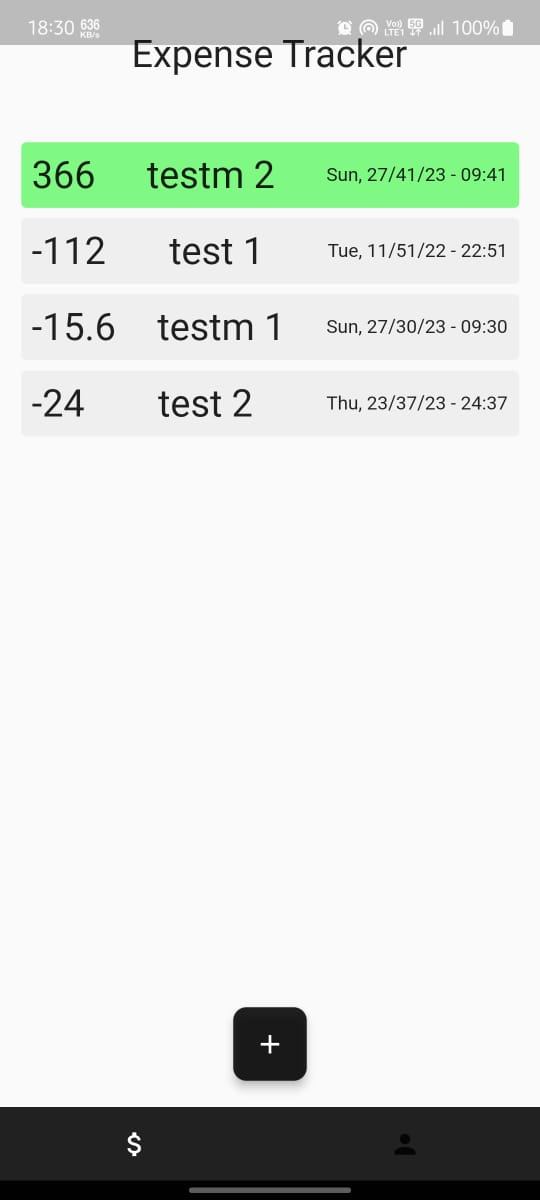
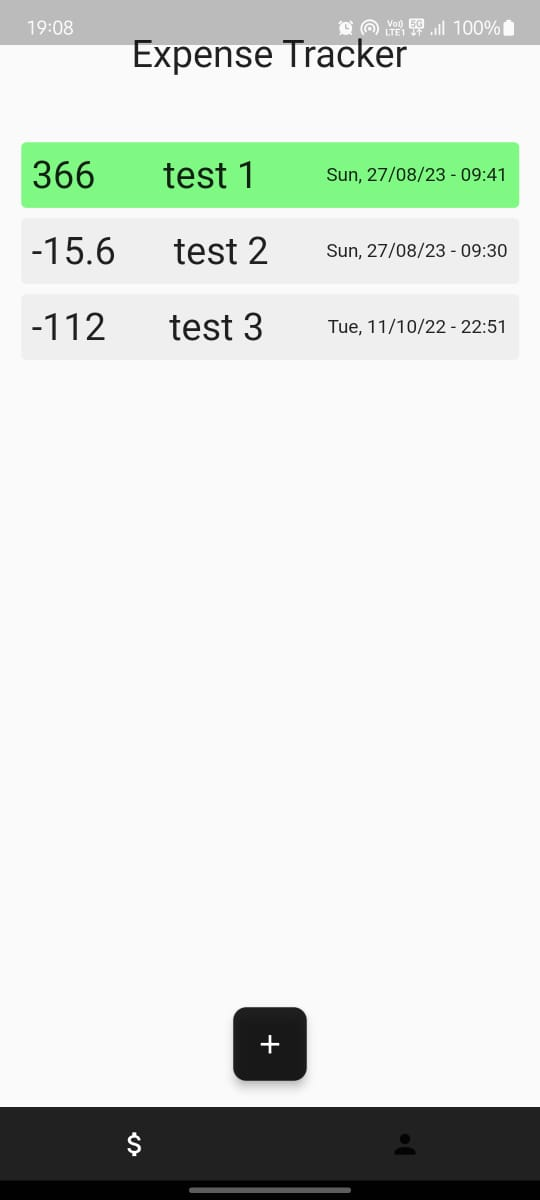
Bug Fix: display month

diff --git a/lib/screens/showData.dart b/lib/screens/showData.dart
@@ -87,7 +87,7 @@ class _showDataState extends State<showData> {
         format = "Sun, ";
     }
 
-    return format += DateFormat('dd/mm/yy - kk:mm').format(dateTime);
+    return format += DateFormat('dd/MM/yy - kk:mm').format(dateTime);
   }
 
   @override
